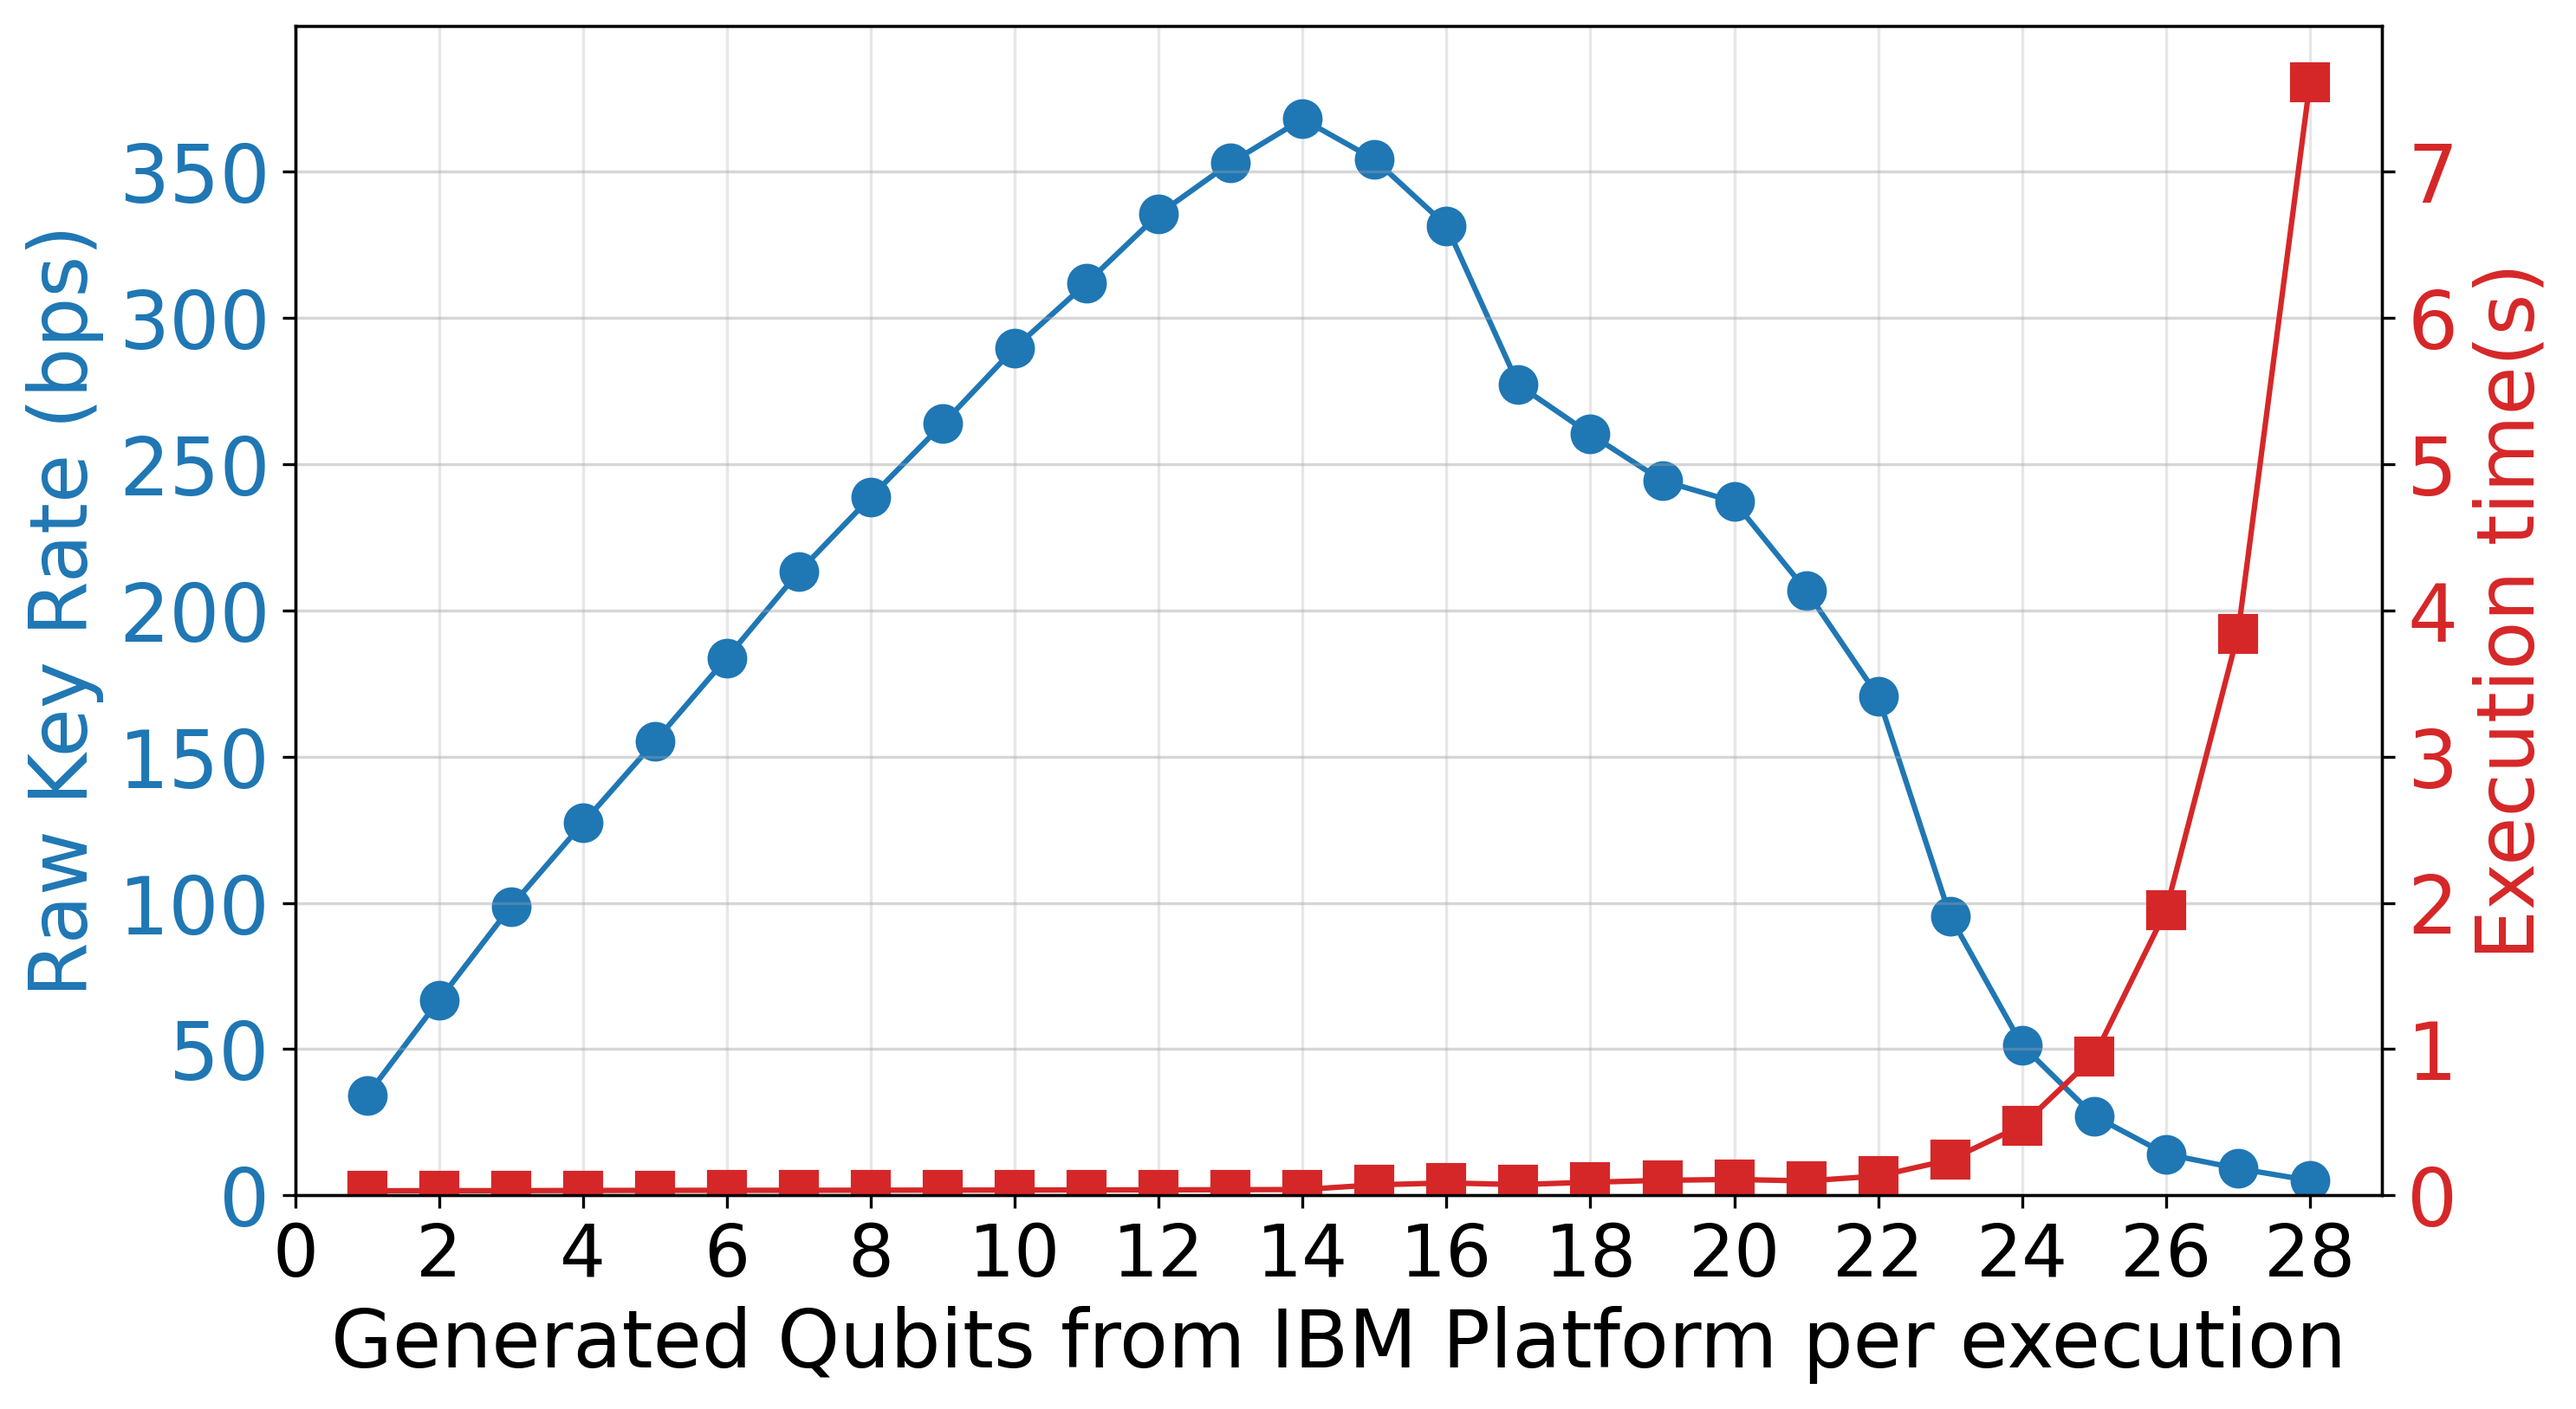
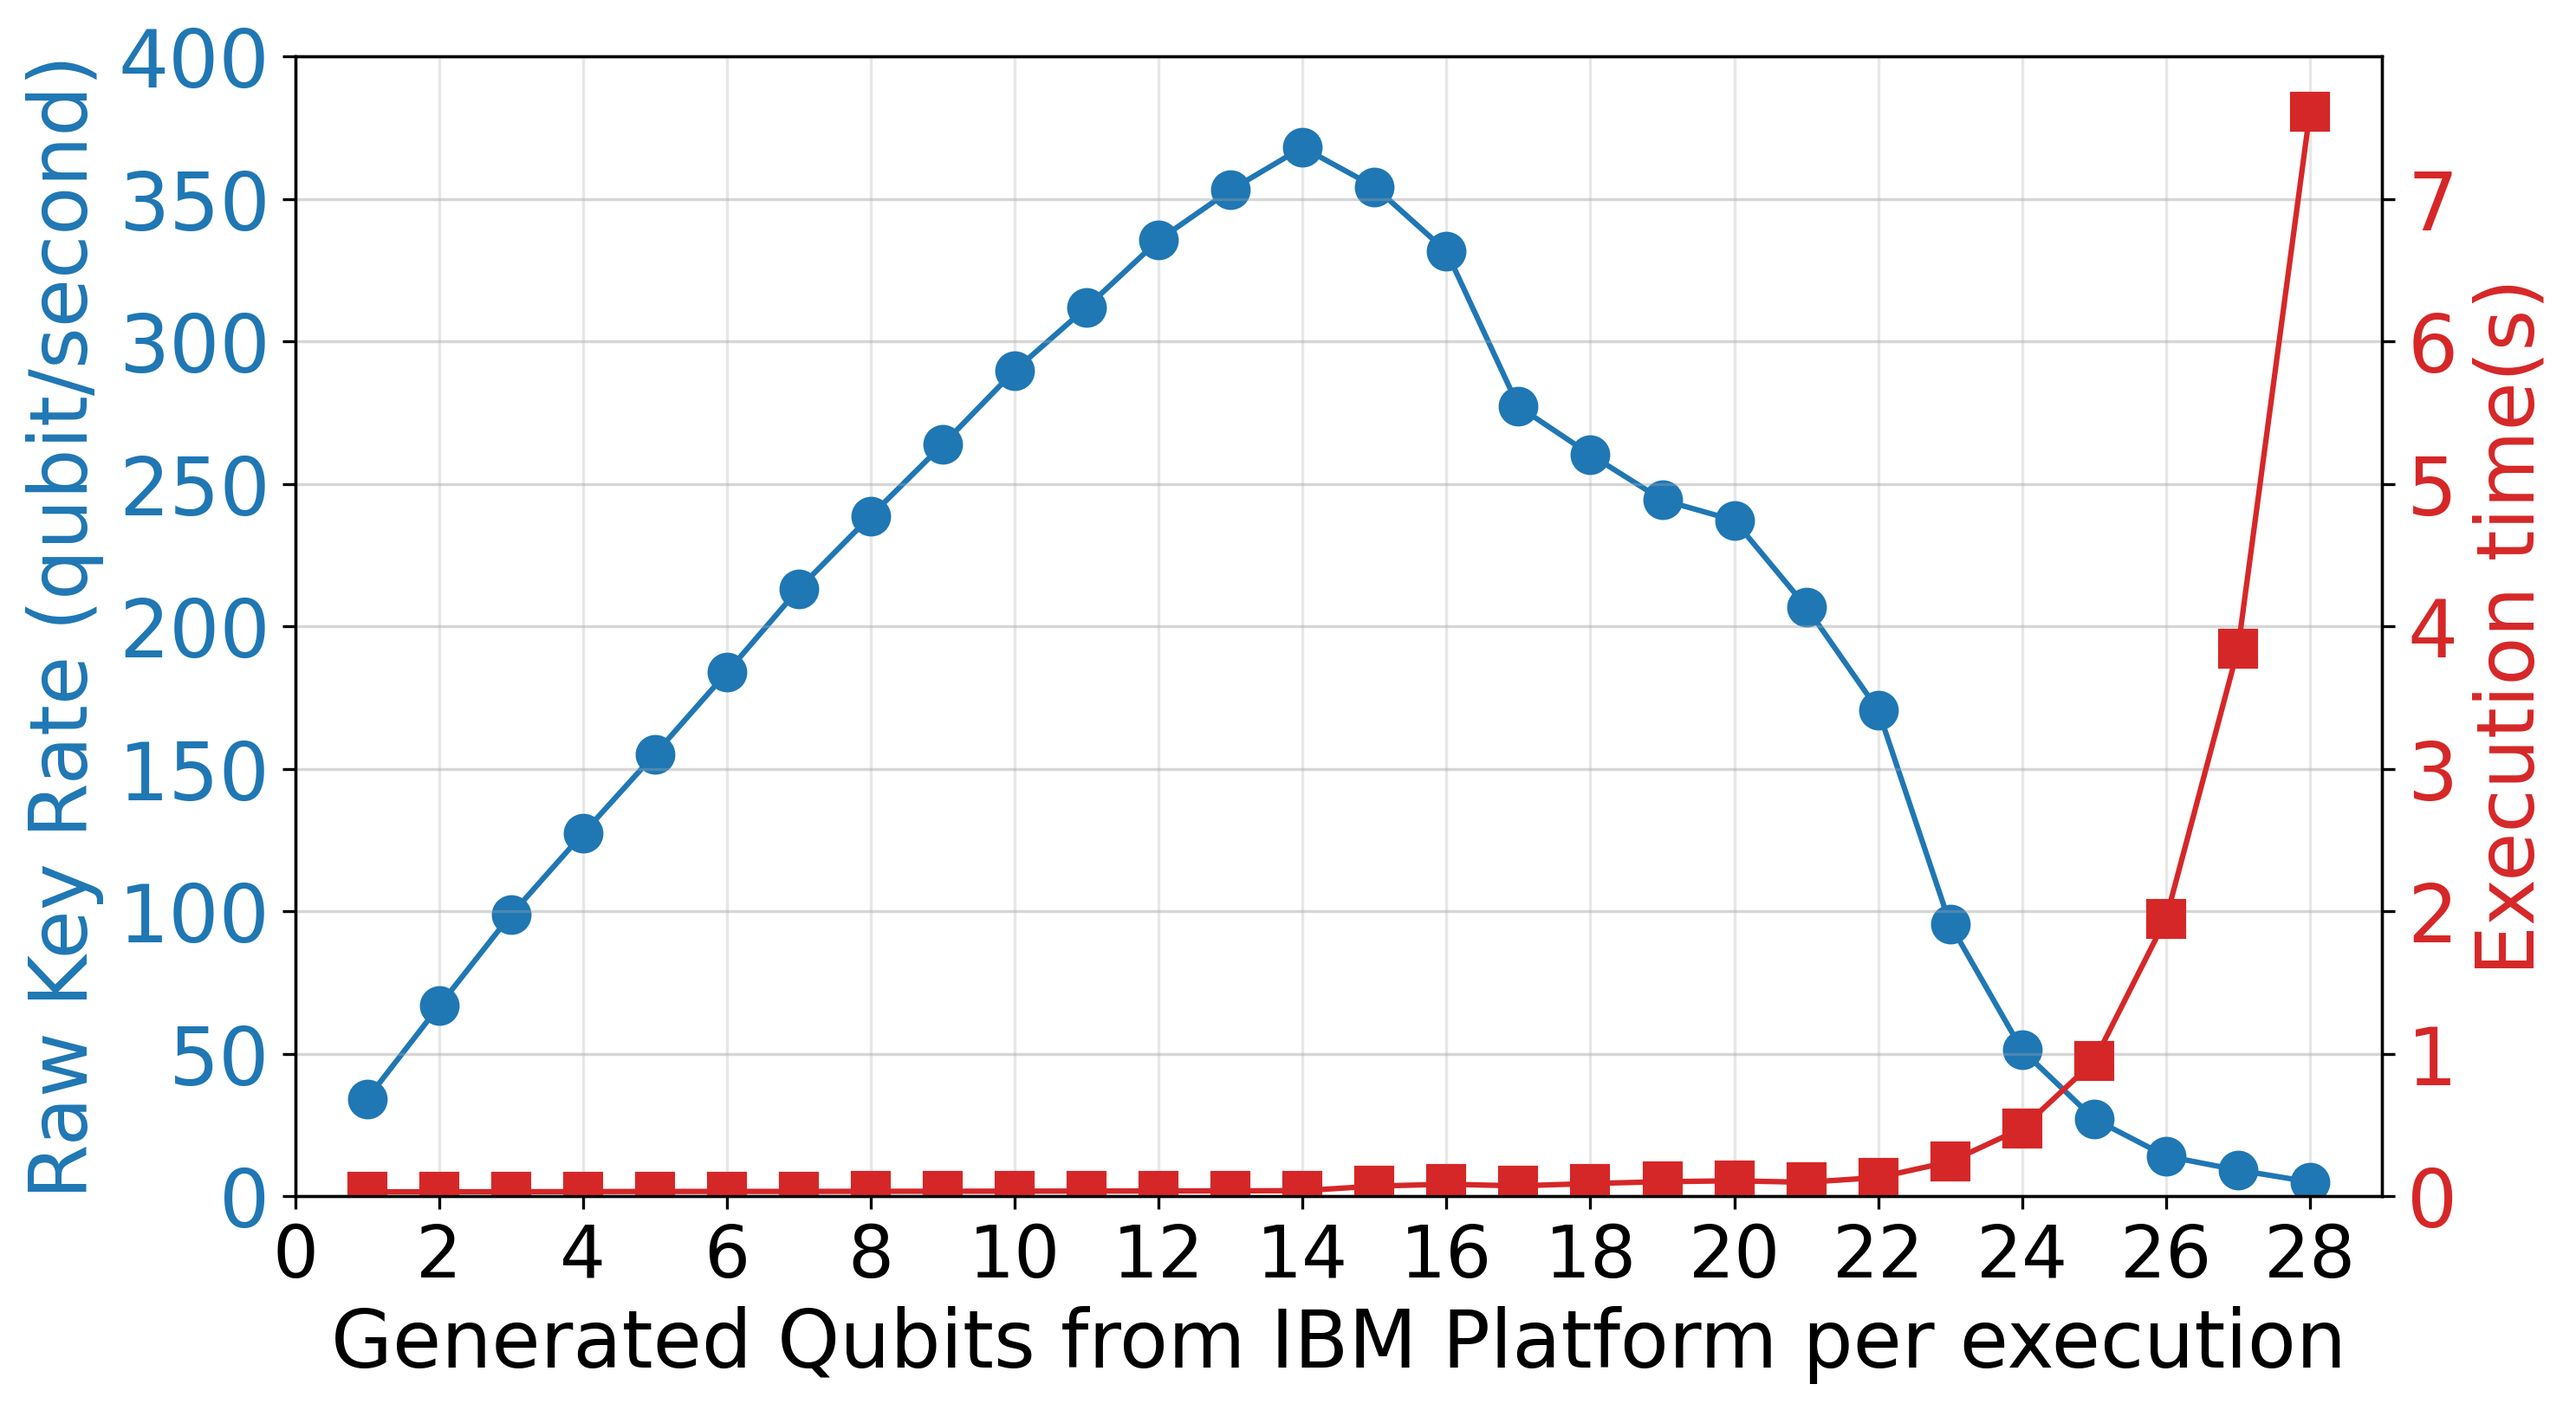
simulate the rawkeyrate and siftedkeyrate

diff --git a/figure/qlength_vs_raw_keyrate_runtime.py b/figure/qlength_vs_raw_keyrate_runtime.py
@@ -67,14 +67,14 @@ fig, ax1 = plt.subplots(figsize=(10, 6))
 
 color = 'tab:blue'
 ax1.set_xlabel('Generated Qubits from IBM Platform per execution', fontsize=22)
-ax1.set_ylabel('Raw Key Rate (bps)', color=color, fontsize=22)
+ax1.set_ylabel('Raw Key Rate (qubit/second)', color=color, fontsize=22)
 ax1.plot(qbit, raw_keyrate, color=color, marker='o', label='Sifted Key Rate (bps)', markersize=10)
 ax1.tick_params(axis='y', labelcolor=color, labelsize=22)
 ax1.tick_params(axis='x', labelsize=20)
 ax1.set_ylim(0, 400)
 ax1.set_xlim(0, 29)
 ax1.set_xticks(np.arange(0, 29, 2))
-ax1.set_yticks(np.arange(0, 400, 50))
+ax1.set_yticks(np.arange(0, 401, 50))
 ax1.grid(alpha=0.3)
 
 ax2 = ax1.twinx()
@@ -92,3 +92,6 @@ fig.tight_layout(rect=[0, 0.03, 1, 0.95])
 plt.savefig('qlength_vs_raw_sifted_keyrate.png', format='png', bbox_inches="tight", dpi=300)
 
 plt.show()
+
+
+
